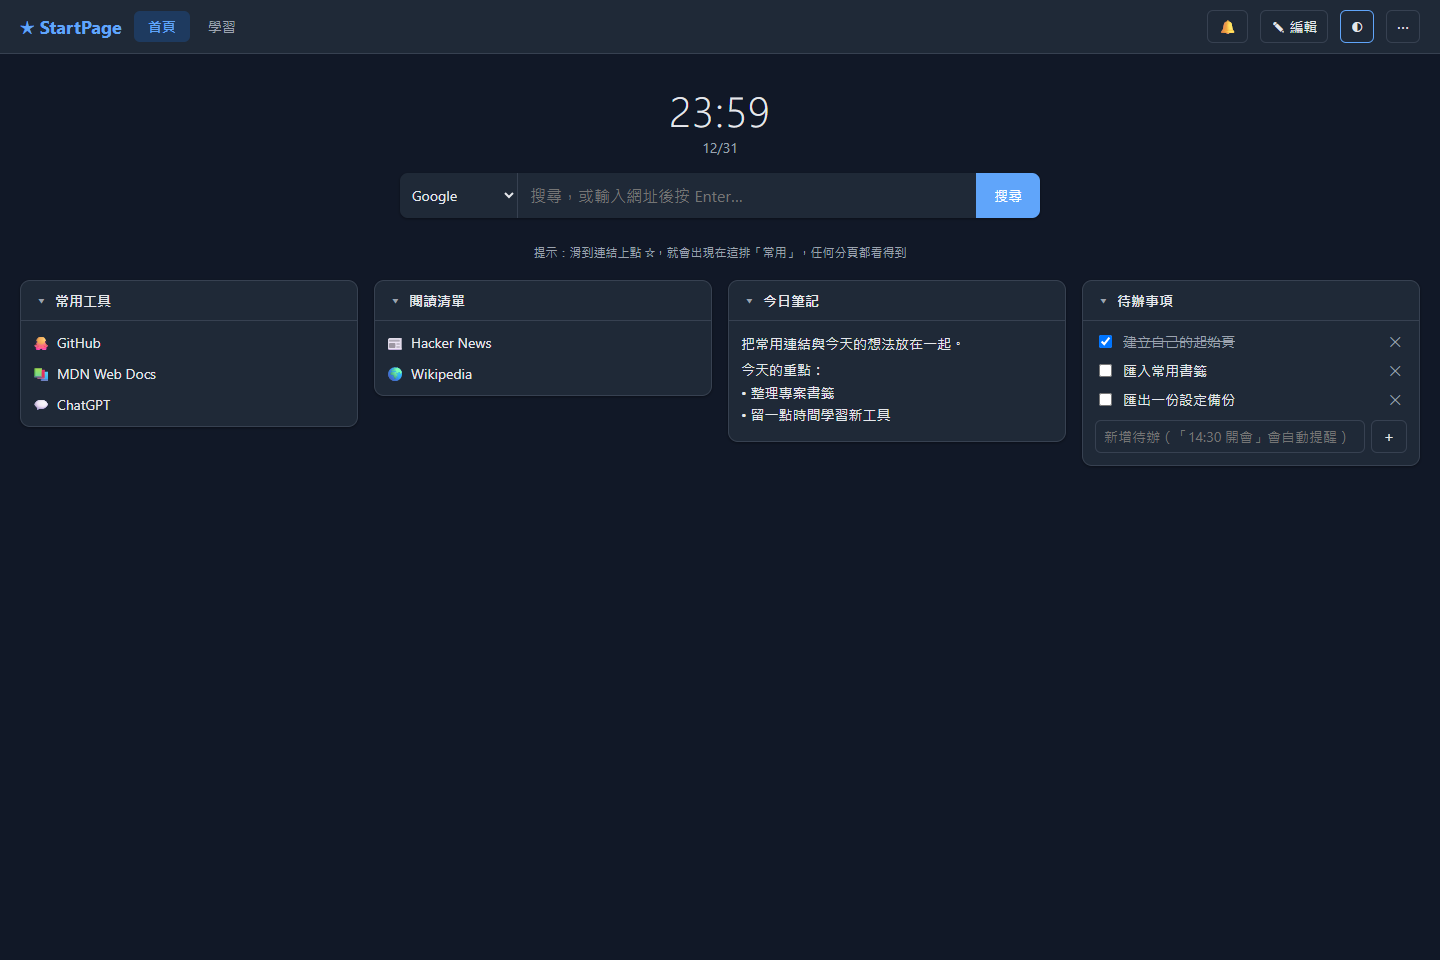
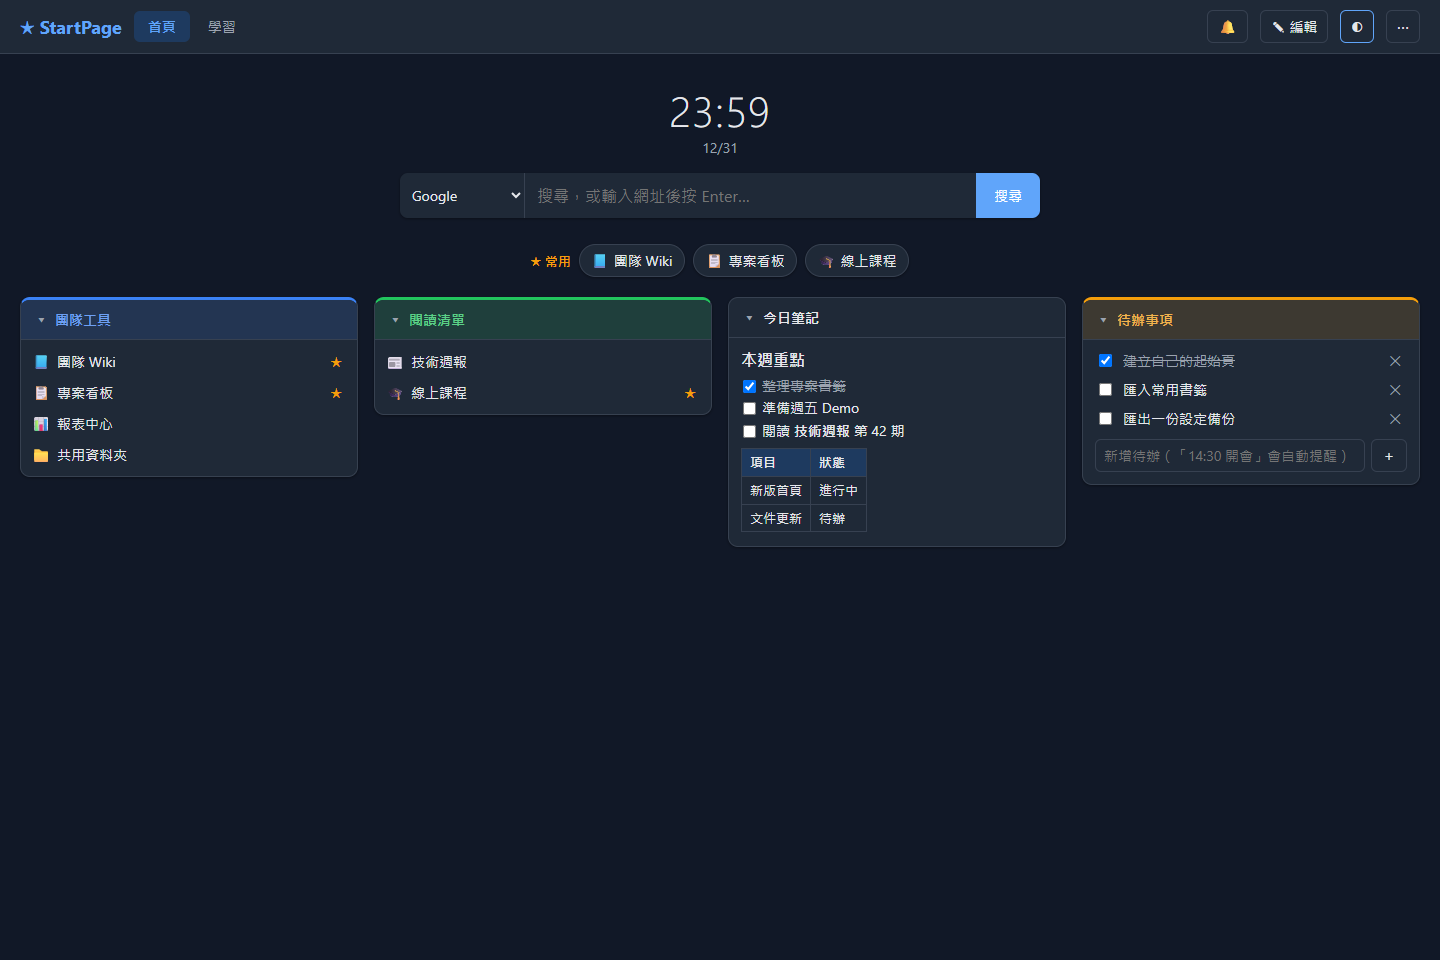
Use fictional demo data and re-record screenshots and GIFs
- examples/default.json and built-in defaults now use example.com placeholder links
- record-demo / preview-check accept playwright-core with a local browser (PW_CHANNEL)
- Regenerated light/dark/settings screenshots and drag/import GIFs

Changed region(s): [[0.0, 0.25, 0.6562, 0.5625], [0.75, 0.2812, 1.0, 0.5], [0.3438, 0.1875, 0.5, 0.2188]]

diff --git a/assets/index.html b/assets/index.html
@@ -295,16 +295,14 @@ const defaultState = () => ({
   pages: [{
     id: uid(), name: '首頁',
     widgets: [
+      // 範例連結（虛構網址），請在編輯模式換成自己的
       { id: uid(), type: 'links', title: '常用工具', links: [
-        { id: uid(), name: 'Google', url: 'https://www.google.com' },
-        { id: uid(), name: 'GitHub', url: 'https://github.com' },
-        { id: uid(), name: 'Azure DevOps', url: 'https://dev.azure.com' },
-        { id: uid(), name: 'ChatGPT', url: 'https://chatgpt.com' },
-        { id: uid(), name: 'Claude', url: 'https://claude.ai' },
+        { id: uid(), name: '團隊 Wiki', url: 'https://wiki.example.com', icon: '📘' },
+        { id: uid(), name: '專案看板', url: 'https://board.example.com', icon: '📋' },
+        { id: uid(), name: '報表中心', url: 'https://reports.example.com', icon: '📊' },
       ]},
-      { id: uid(), type: 'links', title: '新聞', links: [
-        { id: uid(), name: 'Hacker News', url: 'https://news.ycombinator.com' },
-        { id: uid(), name: 'iThome', url: 'https://www.ithome.com.tw' },
+      { id: uid(), type: 'links', title: '閱讀清單', links: [
+        { id: uid(), name: '技術週報', url: 'https://weekly.example.org', icon: '📰' },
       ]},
       { id: uid(), type: 'notes', title: '筆記', text: '在這裡記錄一些事情…\n（自動儲存）' },
       { id: uid(), type: 'todo', title: '待辦', items: [
